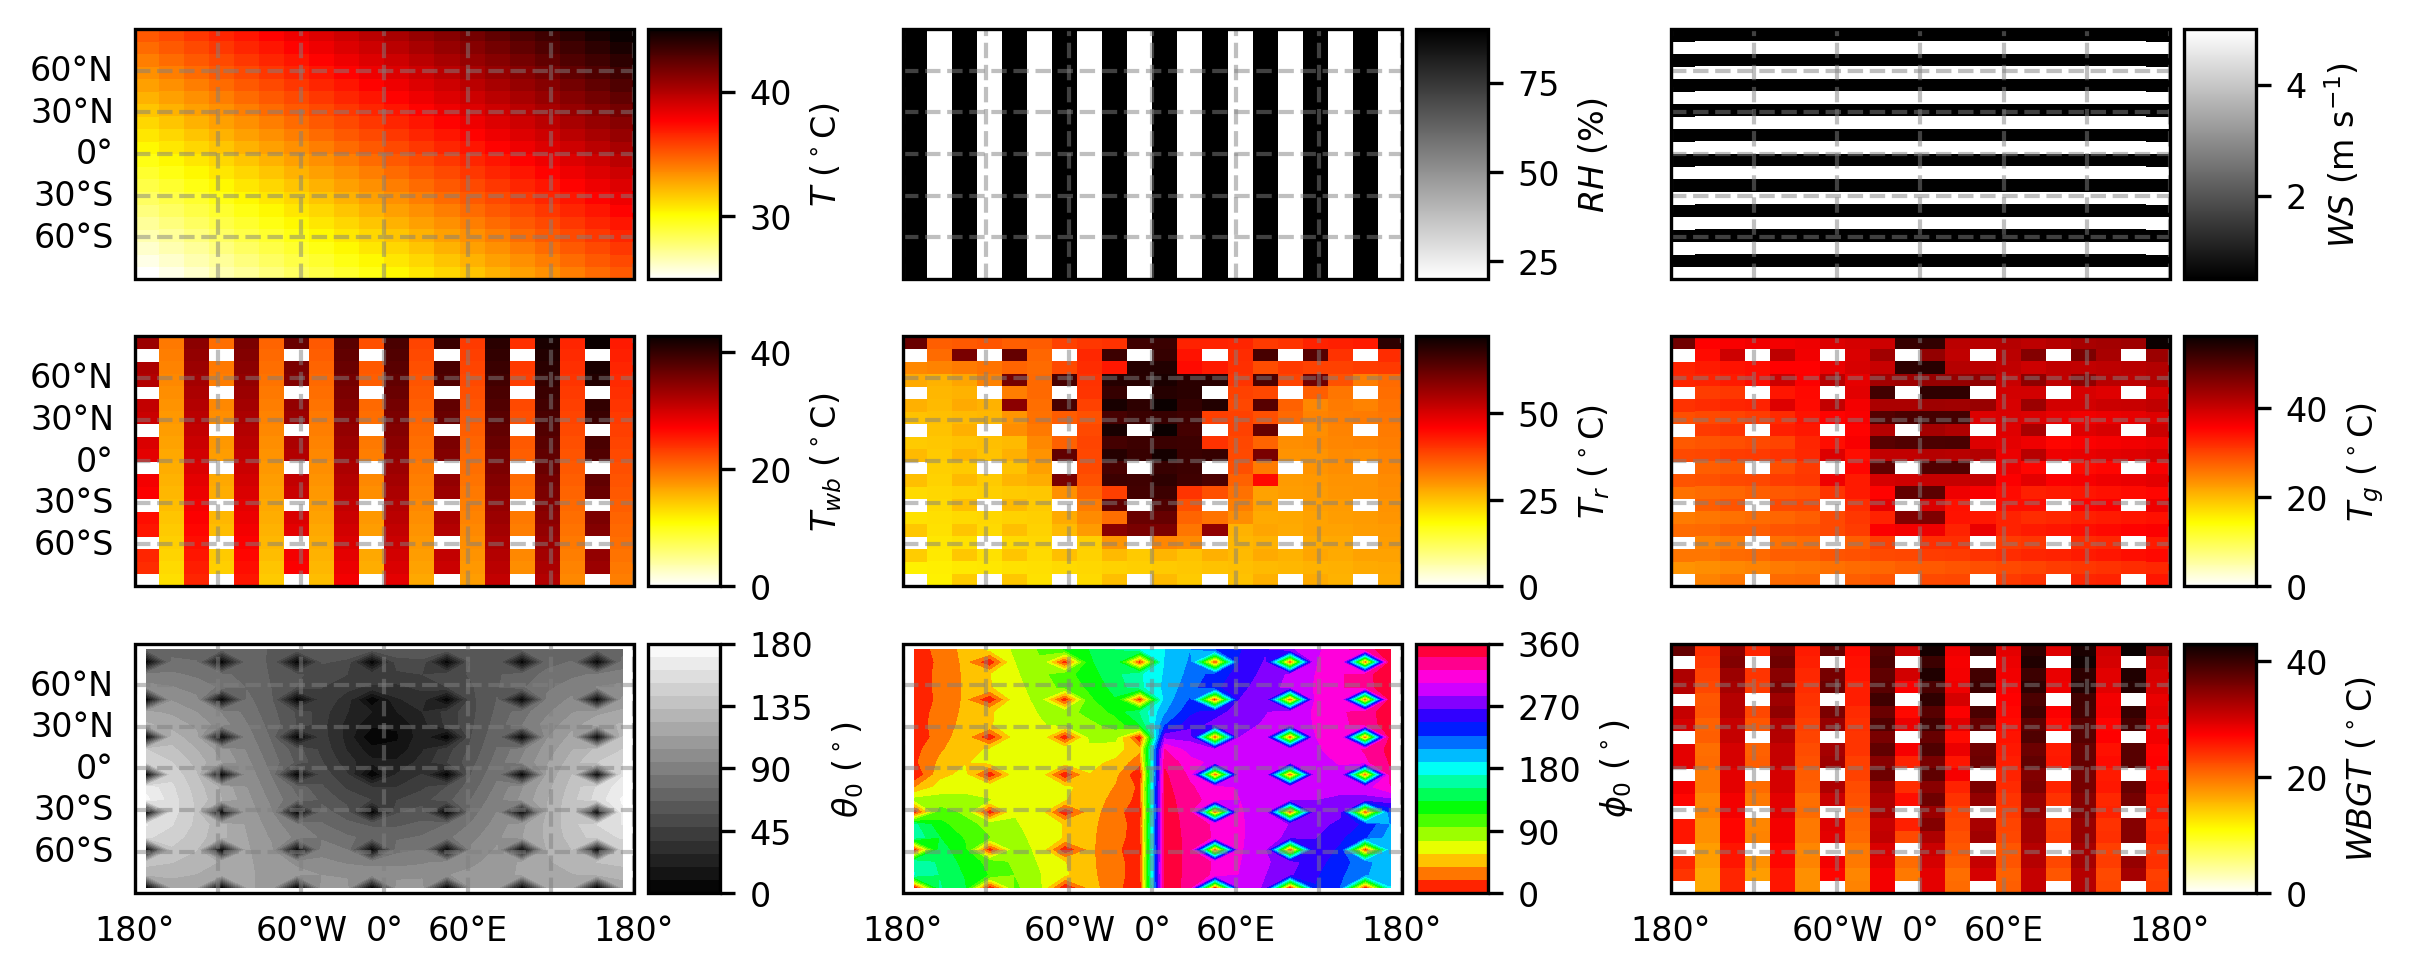
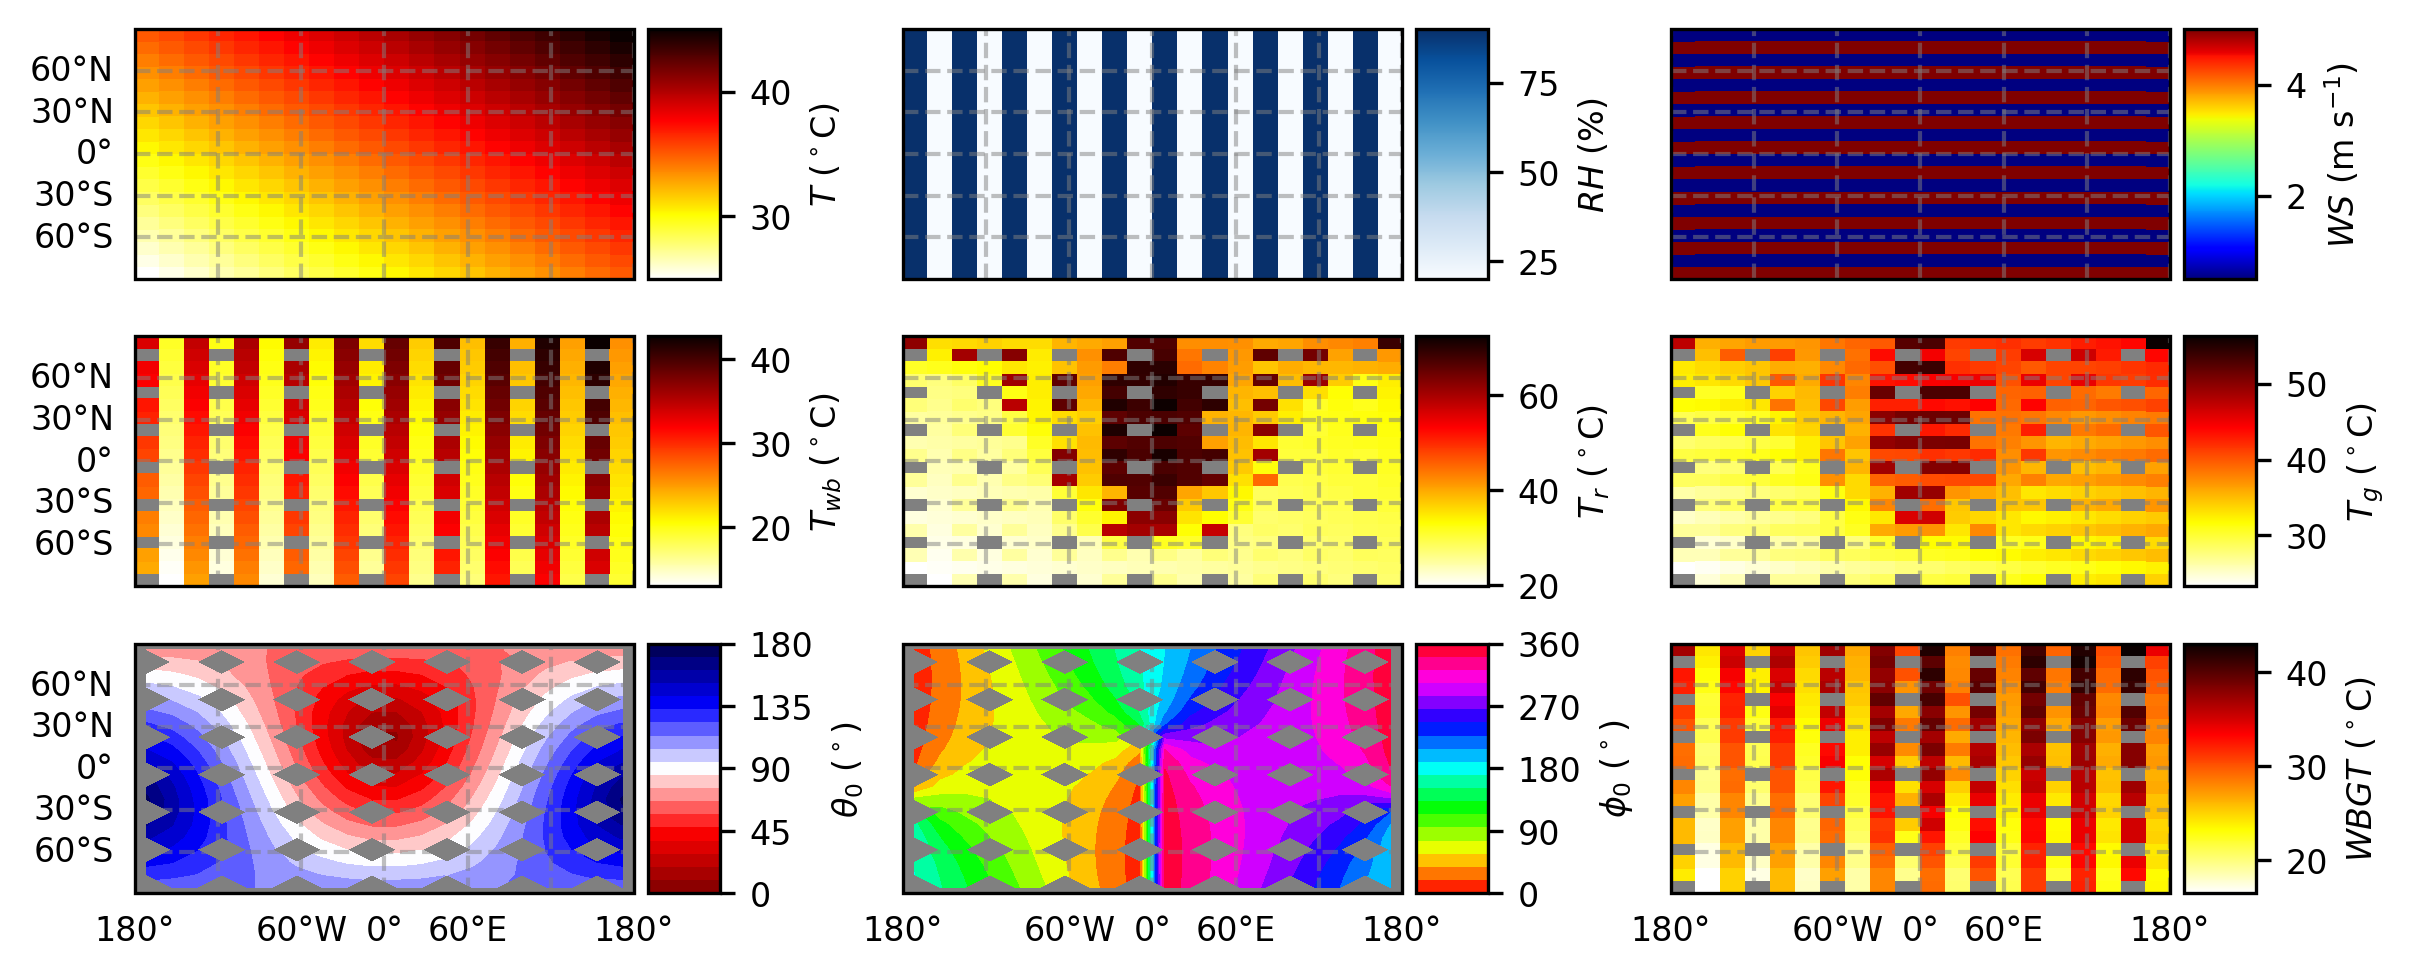
Update facecolor or plotting to grey.

diff --git a/example_UCanWBGT.py b/example_UCanWBGT.py
@@ -182,40 +182,56 @@ ax7.set_extent(extent, crs=ccrs.PlateCarree())
 ax8.set_extent(extent, crs=ccrs.PlateCarree())
 
 # contours
-vmin = np.min(T)
-vmax = np.max(T)
+vmin = np.nanmin(T)
+vmax = np.nanmax(T)
+cmap = plt.cm.hot_r
+ax0.set_facecolor(color='gray')
 c0 = ax0.pcolormesh(lon, lat, T,
-                   cmap='hot_r', vmin=vmin, vmax=vmax, transform=ccrs.PlateCarree())
-vmin = np.min(RH)
-vmax = np.max(RH)
+                   cmap=cmap, vmin=vmin, vmax=vmax, transform=ccrs.PlateCarree())
+vmin = np.nanmin(RH)
+vmax = np.nanmax(RH)
+cmap = plt.cm.Blues
+ax1.set_facecolor(color='gray')
 c1 = ax1.pcolormesh(lon, lat, RH,
-                   cmap='gray_r', vmin=vmin, vmax=vmax, transform=ccrs.PlateCarree())
-vmin = np.min(WS)
-vmax = np.max(WS)
+                   cmap=cmap, vmin=vmin, vmax=vmax, transform=ccrs.PlateCarree())
+vmin = np.nanmin(WS)
+vmax = np.nanmax(WS)
+cmap = plt.cm.jet
+ax2.set_facecolor(color='gray')
 c2 = ax2.pcolormesh(lon, lat, WS,
-                   cmap='gray', transform=ccrs.PlateCarree())
-vmin = np.min(Twb)
-vmax = np.max(Twb)
+                   cmap=cmap, transform=ccrs.PlateCarree())
+vmin = np.nanmin(Twb)
+vmax = np.nanmax(Twb)
+cmap = plt.cm.hot_r
+ax3.set_facecolor(color='gray')
 c3 = ax3.pcolormesh(lon, lat, Twb,
-                   cmap='hot_r', vmin=vmin, vmax=vmax, transform=ccrs.PlateCarree())
-vmin = np.min(MRT)
-vmax = np.max(MRT)
+                   cmap=cmap, vmin=vmin, vmax=vmax, transform=ccrs.PlateCarree())
+vmin = np.nanmin(MRT)
+vmax = np.nanmax(MRT)
+cmap = plt.cm.hot_r
+ax4.set_facecolor(color='gray')
 c4 = ax4.pcolormesh(lon, lat, MRT,
-                   cmap='hot_r', vmin=vmin, vmax=vmax, transform=ccrs.PlateCarree())
-vmin = np.min(Tg)
-vmax = np.max(Tg)
+                   cmap=cmap, vmin=vmin, vmax=vmax, transform=ccrs.PlateCarree())
+vmin = np.nanmin(Tg)
+vmax = np.nanmax(Tg)
+cmap = plt.cm.hot_r
+ax5.set_facecolor(color='gray')
 c5 = ax5.pcolormesh(lon, lat, Tg,
-                   cmap='hot_r', vmin=vmin, vmax=vmax, transform=ccrs.PlateCarree())
+                   cmap=cmap, vmin=vmin, vmax=vmax, transform=ccrs.PlateCarree())
+cmap = plt.cm.seismic_r
+ax6.set_facecolor(color='gray')
 c6 = ax6.contourf(lon, lat, solar_zen_deg,
-                   cmap='gray', levels=np.linspace(0., 180., 20),
-                   transform=ccrs.PlateCarree())
+                 cmap=cmap, levels=np.linspace(0., 180., 20), transform=ccrs.PlateCarree())
+cmap = plt.cm.hsv
+ax7.set_facecolor(color='gray')
 c7 = ax7.contourf(lon, lat, canyon_azi_deg,
-                   cmap='hsv', levels=np.linspace(0., 360., 20),
-                   transform=ccrs.PlateCarree())
-vmin = np.min(WBGT)
-vmax = np.max(WBGT)
+                 cmap=cmap, levels=np.linspace(0., 360., 20), transform=ccrs.PlateCarree())
+vmin = np.nanmin(WBGT)
+vmax = np.nanmax(WBGT)
+cmap = plt.cm.hot_r
+ax8.set_facecolor(color='gray')
 c8 = ax8.pcolormesh(lon, lat, WBGT,
-                   cmap='hot_r', vmin=vmin, vmax=vmax, transform=ccrs.PlateCarree())
+                   cmap=cmap, vmin=vmin, vmax=vmax, transform=ccrs.PlateCarree())
 
 # gridlines
 gl0 = ax0.gridlines(crs=ccrs.PlateCarree(), draw_labels=True,
